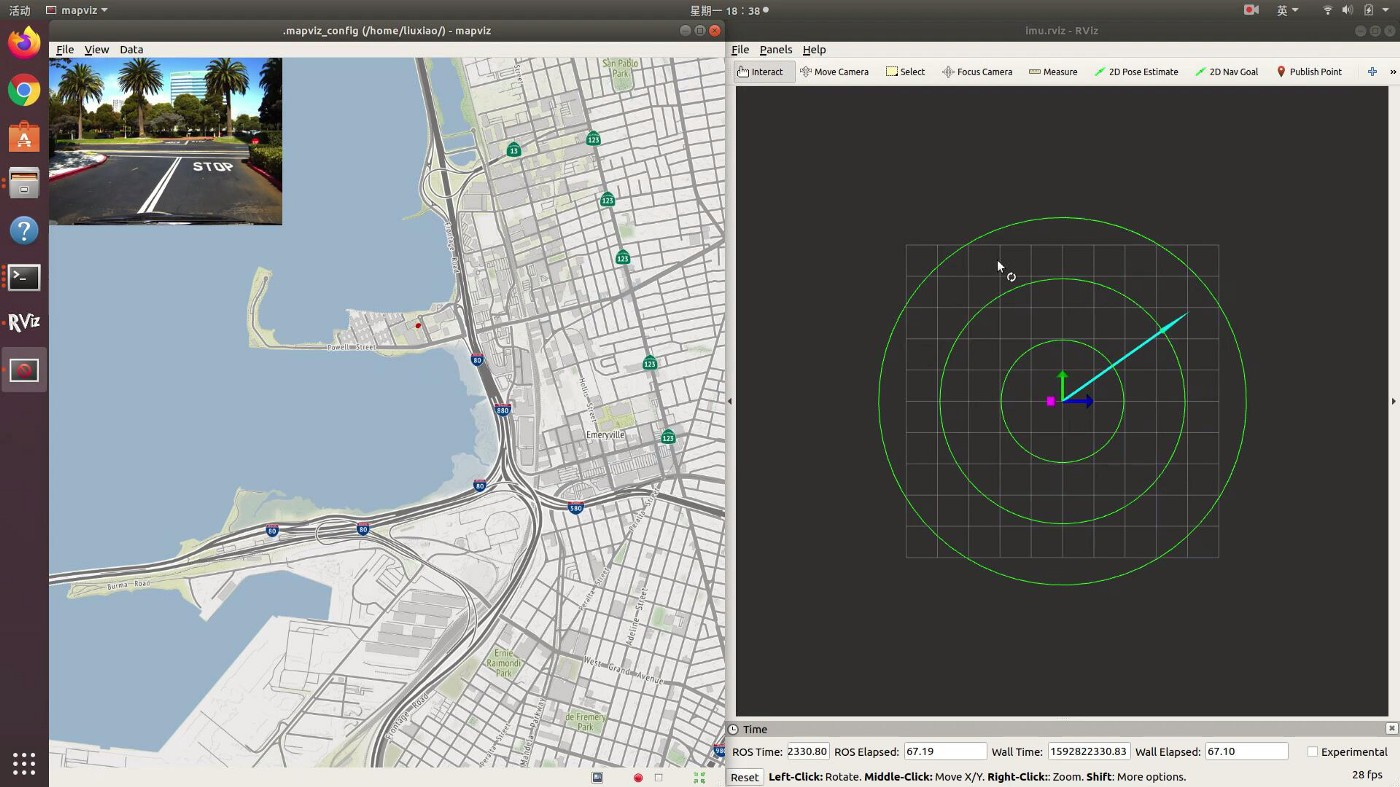
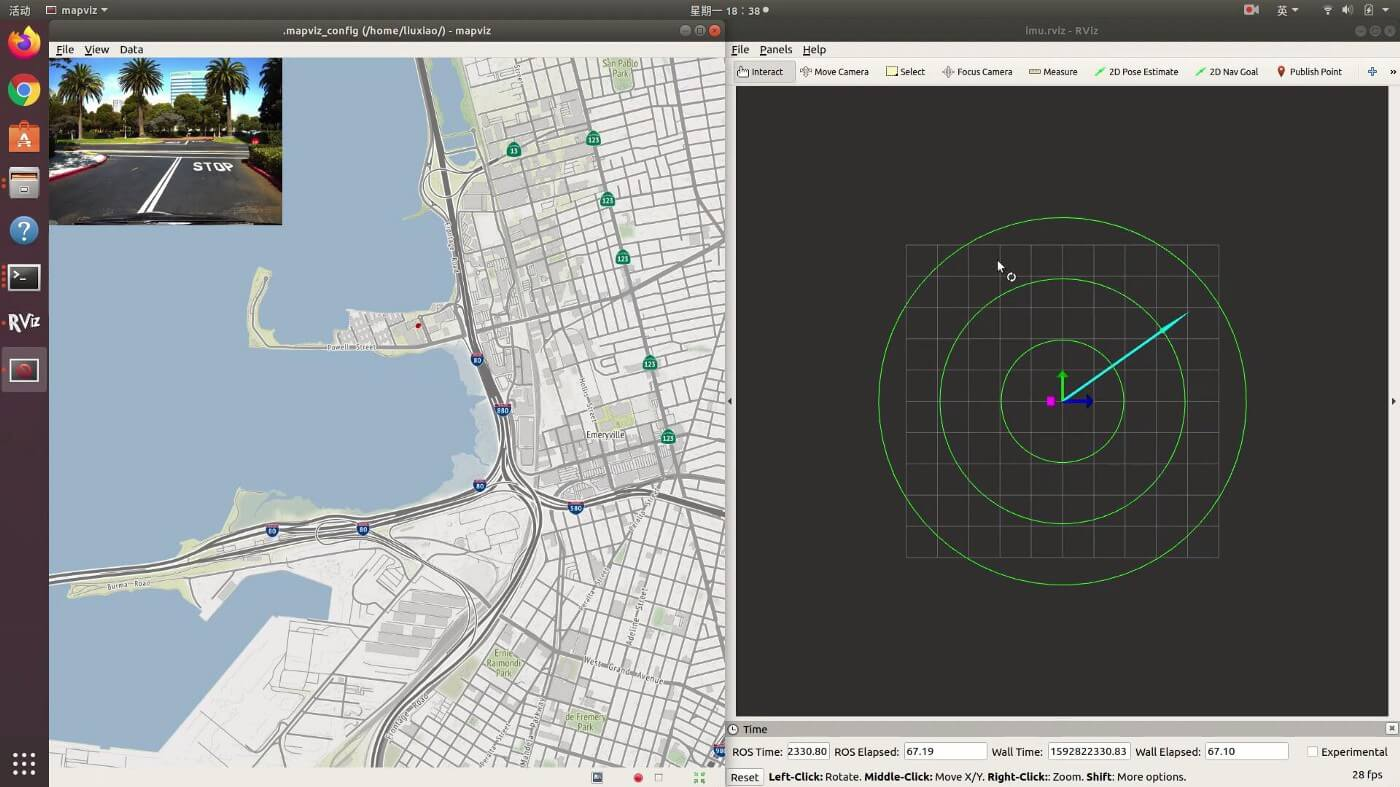
v1.4
compress pictures

diff --git a/assets/css/style.css b/assets/css/style.css
@@ -211,7 +211,7 @@ h1, h2, h3, h4, h5, h6 {
 #hero {
   width: 100%;
   height: 100vh;
-  background: url("../img/hero-bg.png") top center;
+  background: url("../img/hero-bg.jpeg") top center;
   background-size: cover;
 }
 
